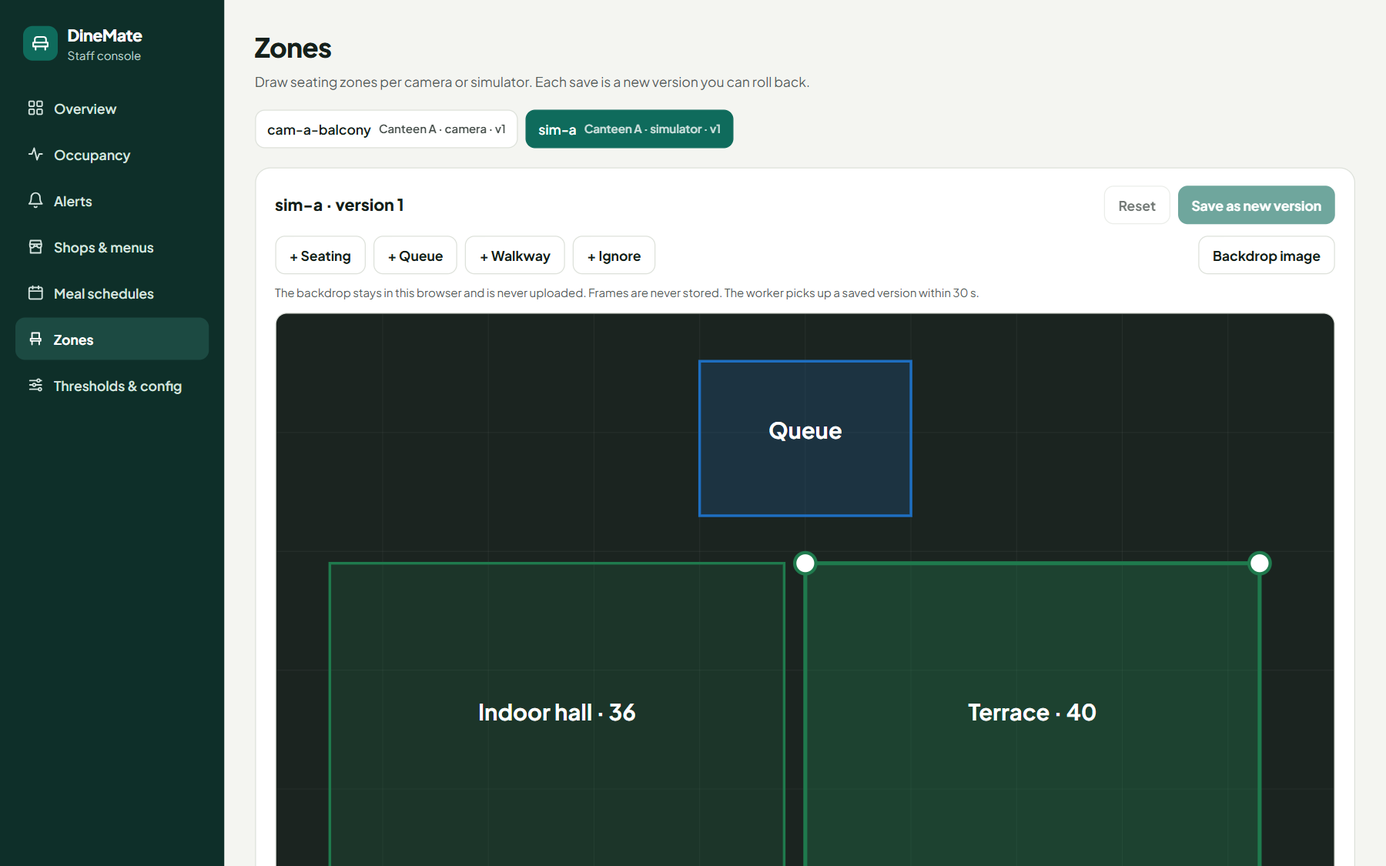
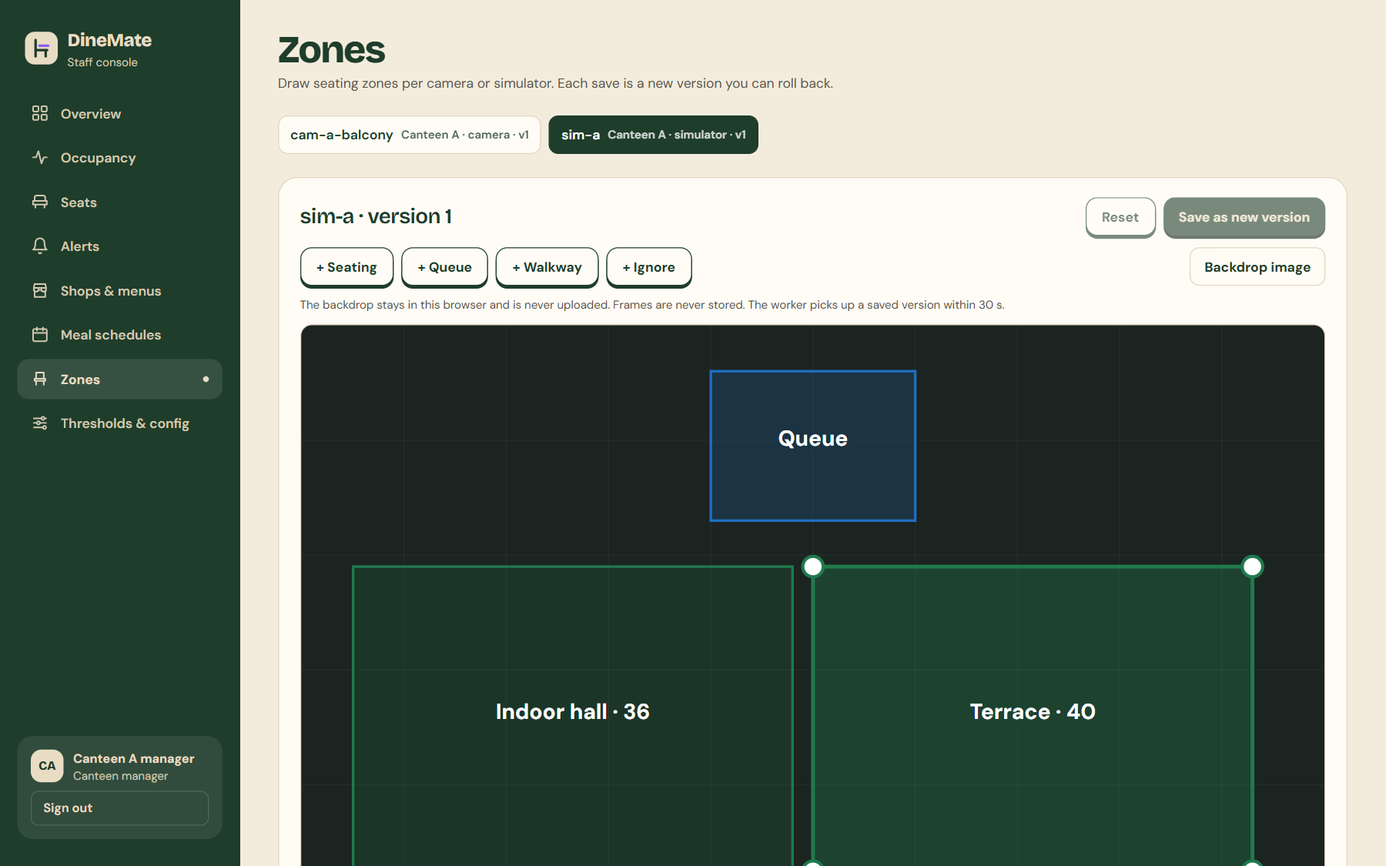
docs: README with DineMate Business, the redesign and new screenshots

diff --git a/e2e/screenshots/capture.spec.ts b/e2e/screenshots/capture.spec.ts
@@ -1,6 +1,6 @@
-import { expect, test, type Browser, type Page } from "@playwright/test";
+import { expect, test, type APIRequestContext, type Browser, type Page } from "@playwright/test";
 import { fileURLToPath } from "node:url";
-import { asStudent, CONSOLE, signIn, STUDENT } from "../tests/support";
+import { API, asStudent, BUSINESS, CONSOLE, PASSWORD, signIn, SIM_TOKEN, STUDENT } from "../tests/support";
 
 const OUT = fileURLToPath(new URL("../../docs/screenshots/", import.meta.url));
 const PHONE = { viewport: { width: 390, height: 844 }, deviceScaleFactor: 2, isMobile: true, hasTouch: true };
@@ -26,6 +26,15 @@ async function shot(page: Page, name: string, fullPage = false): Promise<void> {
 }
 
 test.describe.configure({ mode: "serial" });
+
+test("welcome screen on a phone", async ({ browser }) => {
+  const context = await browser.newContext(PHONE);
+  const page = await context.newPage();
+  await page.goto(`${STUDENT}/welcome`);
+  await expect(page.getByRole("button", { name: /Find a seat/ })).toBeVisible();
+  await shot(page, "student-welcome-phone");
+  await context.close();
+});
 
 test("student app on a phone", async ({ browser }) => {
   const page = await studentPage(browser, PHONE);
@@ -63,11 +72,40 @@ test("student app on a laptop", async ({ browser }) => {
   await page.context().close();
 });
 
-test("staff console", async ({ browser }) => {
+async function postSampleSeats(request: APIRequestContext): Promise<void> {
+  const headers = { Authorization: `Device ${SIM_TOKEN}` };
+  const config = (await (await request.get(`${API}/devices/sim-a/config`, { headers })).json()) as {
+    zones: { zone_id: string; capacity: number }[];
+  };
+  const zones = config.zones.map((z, i) => {
+    const held = 4;
+    const unknown = i === 0 ? 2 : 0;
+    const occupied = Math.round(z.capacity * (i === 0 ? 0.75 : 0.62));
+    return {
+      zone_id: z.zone_id,
+      free: z.capacity - occupied - held - unknown,
+      occupied,
+      held,
+      unknown,
+      free_soon: 2,
+      standing: i === 0 ? 5 : 1,
+      crowded: i === 0,
+    };
+  });
+  const response = await request.post(`${API}/devices/sim-a/seats`, {
+    headers,
+    data: { captured_at: new Date(Date.now() - 1000).toISOString(), zones, seats: [] },
+  });
+  expect(response.ok()).toBeTruthy();
+}
+
+test("staff console", async ({ browser, request }) => {
+  await postSampleSeats(request);
   for (const [email, path, name, ready] of [
     ["admin@dinemate.test", "/", "console-overview", "Live occupancy by zone"],
     ["rice.stall@dinemate.test", "/shops", "console-shops", "Rice & Curry Stall"],
     ["canteen.a@dinemate.test", "/occupancy", "console-occupancy", "Estimated seats in use"],
+    ["canteen.a@dinemate.test", "/seats", "console-seats", "By zone"],
   ] as const) {
     const context = await browser.newContext(WIDE);
     const page = await context.newPage();
@@ -114,4 +152,34 @@ test("labelled safety simulation", async ({ browser }) => {
   await expect(officer.getByText("No open safety events.")).toBeVisible();
   await student.context().close();
   await context.close();
+});
+
+async function businessPage(browser: Browser, size: typeof PHONE | typeof WIDE): Promise<Page> {
+  const context = await browser.newContext(size);
+  const page = await context.newPage();
+  await page.goto(BUSINESS);
+  await page.getByLabel("Email").fill("owner@dinemate.test");
+  await page.getByLabel("Password").fill(PASSWORD);
+  await page.getByRole("button", { name: "Sign in" }).click();
+  await expect(page.getByRole("heading", { name: "Live floor", level: 1 })).toBeVisible();
+  return page;
+}
+
+test("DineMate Business dashboard", async ({ browser }) => {
+  const page = await businessPage(browser, WIDE);
+  await expect(page.getByRole("list", { name: "Floor map" }).getByRole("listitem")).toHaveCount(12);
+  await shot(page, "business-floor");
+  for (const [name, file] of [
+    ["Customers", "business-customers"],
+    ["Reports", "business-reports"],
+  ] as const) {
+    await page.getByRole("navigation", { name: "Business" }).getByRole("link", { name }).click();
+    await expect(page.getByRole("heading", { name, level: 1 })).toBeVisible();
+    await shot(page, file);
+  }
+  await page.context().close();
+
+  const phone = await businessPage(browser, PHONE);
+  await shot(phone, "business-floor-phone");
+  await phone.context().close();
 });

diff --git a/e2e/screenshots.config.ts b/e2e/screenshots.config.ts
@@ -32,5 +32,12 @@ export default defineConfig({
       timeout: 120_000,
       reuseExistingServer: false,
     },
+    {
+      command: "pnpm --filter business exec vite --port 5185 --strictPort",
+      url: "http://localhost:5185",
+      env: { VITE_API_URL: API },
+      timeout: 120_000,
+      reuseExistingServer: false,
+    },
   ],
 });

diff --git a/README.md b/README.md
@@ -1,31 +1,35 @@
 # DineMate
 
-**Find a free canteen seat before you queue.** DineMate shows campus students roughly how many seats are free in each canteen, suggests a less crowded one nearby, and lists what each shop is serving right now. Canteen staff get a console for alerts, menus, meal times and seating zones. A separate safety module mirrors approved alarms, and every simulated alarm is clearly labelled.
+**Find a free canteen seat before you queue.** DineMate shows campus students roughly how many seats are free in each canteen, counting bags left on seats and hidden seats separately, suggests a less crowded canteen nearby, and lists what each shop is serving. Canteen staff get a console for alerts, seats, menus, meal times and seating zones. A separate safety module mirrors approved alarms, and every simulated alarm is clearly labelled.
 
-> All canteens, shops, prices and people counts in this repo are **labelled sample data**. Seat numbers are always estimates ("about N", with a range). Old data is never shown as current.
+**DineMate Business** is the same platform for cafés and restaurants, rented monthly: a live table map, anonymous customer visits and turn times, and a "likely free in about X–Y min" estimate per table.
+
+> All canteens, shops, cafés, prices and people counts in this repo are **labelled sample data**. Seat numbers are always estimates ("about N", with a range). Old data is never shown as current.
 
 <p align="center">
-  <img src="docs/screenshots/student-home-phone.png" width="230" alt="Student Home: best spot now and the canteen list with about N seats free" />
+  <img src="docs/screenshots/student-welcome-phone.png" width="230" alt="Welcome screen: know where to sit before you queue" />
   &nbsp;
-  <img src="docs/screenshots/student-canteen-phone.png" width="230" alt="Canteen page for a crowded canteen with a Less crowded nearby suggestion" />
+  <img src="docs/screenshots/student-home-phone.png" width="230" alt="Student Home: best spot now with about 32 seats free and the canteen list with occupancy bars" />
   &nbsp;
-  <img src="docs/screenshots/student-food-phone.png" width="230" alt="Food tab with sample menu pictures, prices and sold-out state" />
+  <img src="docs/screenshots/student-canteen-phone.png" width="230" alt="Canteen page with the seat bar, zones and a Less crowded nearby suggestion" />
 </p>
 
 ## What it does
 
-| For students (installable PWA)                                             | For staff (console)                                                              |
-| -------------------------------------------------------------------------- | -------------------------------------------------------------------------------- |
-| Live "about N seats free" per canteen and zone, with a range               | Overview: live zones, crowding alerts with acknowledge, device health            |
-| **Best spot now** and a **Less crowded nearby** card with walking time     | **Shops & menus**: hours, exceptions, temporary closure, menu drafts → Publish   |
-| Food tab: shops open now, menus by meal, one-tap **sold out** from staff   | **Meal schedules**: campus default plus per-canteen overrides                    |
-| Meal countdown that follows the server clock (a wrong phone clock is fine) | **Thresholds** per zone; **Zones** editor with versions and rollback             |
-| Experimental **Next hour** forecast                                        | **Occupancy** history; **Safety** desk: acknowledge, resolve, labelled simulator |
-| Safety banner; "status unknown" if the connection drops                    | Roles and scopes: admin, canteen manager, shop manager, safety officer           |
+| Students (installable PWA)                                              | Campus staff (console)                                                                  | Cafés and restaurants (DineMate Business)                                              |
+| ----------------------------------------------------------------------- | --------------------------------------------------------------------------------------- | -------------------------------------------------------------------------------------- |
+| "About N seats free" per canteen and zone, with a range                 | Overview: free seats, live zones, crowding alerts with acknowledge, device health       | **Live floor**: table map with free, seated, held by a bag and needs clearing          |
+| Occupancy bar that shows taken, **held by bags**, hidden and free seats | **Seats**: per-zone taken, held, hidden and free-soon counts, seat maps, stay times     | **Likely free in about X–Y min** per table (experimental, from the café's own history) |
+| **Best spot now** and **Less crowded nearby** with walking time         | **Shops & menus**: hours, exceptions, closures, menu drafts → Publish, one-tap sold out | **Customers**: anonymous visits, average stay, turns per table, busiest hours          |
+| Food tab: shops open now, menus by meal, sold out in real time          | **Meal schedules**, **Thresholds**, **Zones** editor with seat placing and rollback     | **Reports**: day and week totals, weekday × hour grid                                  |
+| Meal countdown on the server clock; experimental **next hour** forecast | **Occupancy** history; **Safety** desk with a labelled simulator                        | **Settings**: group camera seats into tables, data retention                           |
+| Safety banner; "status unknown" if the connection drops                 | Roles: admin, canteen manager, shop manager, safety officer                             | Roles: owner and venue manager; Staff, Sales and Privacy arrive in Phase 9             |
 
-Seats are counted by a small vision worker (YOLO11n + ByteTrack). It runs on a laptop with a webcam or a recorded canteen video and **posts counts only**: no frames are stored and there is no face recognition. Canteens without a camera are fed by a labelled simulator.
+Seats are counted by a small vision worker (YOLO11n + ByteTrack, plus pose for sitting vs standing). It runs on a laptop with a webcam or a recorded video and **posts numbers only**: no frames are stored and customers are never identified. Places without a camera are fed by labelled simulators.
 
 ## Screenshots
+
+### Student app
 
 <table>
   <tr>
@@ -33,58 +37,91 @@ Seats are counted by a small vision worker (YOLO11n + ByteTrack). It runs on a l
     <td width="50%"><img src="docs/screenshots/student-food-laptop.png" alt="Food and shops on a laptop with sample menu pictures" /></td>
   </tr>
   <tr>
-    <td align="center">Student Home: best spot, canteens, busy times</td>
-    <td align="center">Food & shops: menus with sample pictures</td>
-  </tr>
-  <tr>
-    <td><img src="docs/screenshots/console-overview.png" alt="Staff console overview" /></td>
-    <td><img src="docs/screenshots/console-shops.png" alt="Shop manager editing a menu" /></td>
-  </tr>
-  <tr>
-    <td align="center">Console overview: zones, alerts, devices, today's chart</td>
-    <td align="center">Shop manager: draft menu, inline prices, one-tap sold out</td>
-  </tr>
-  <tr>
-    <td><img src="docs/screenshots/console-zones.png" alt="Zone editor with versions" /></td>
-    <td><img src="docs/screenshots/console-safety.png" alt="Safety desk with a labelled simulated alarm" /></td>
-  </tr>
-  <tr>
-    <td align="center">Zone editor: drag corners, save a version, roll back</td>
-    <td align="center">Safety desk: every simulation is labelled</td>
+    <td align="center">Home: best spot, meal countdown, every canteen at a glance</td>
+    <td align="center">Food & shops: menus with sample pictures and sold-out state</td>
   </tr>
 </table>
 
 <p align="center">
-  <img src="docs/screenshots/student-meals-phone.png" width="230" alt="Meal countdown" />
+  <img src="docs/screenshots/student-food-phone.png" width="200" alt="Food tab on a phone" />
   &nbsp;
-  <img src="docs/screenshots/student-safety-phone.png" width="230" alt="Student banner during a labelled safety simulation" />
+  <img src="docs/screenshots/student-meals-phone.png" width="200" alt="Meal countdown read from the campus clock" />
+  &nbsp;
+  <img src="docs/screenshots/student-safety-phone.png" width="200" alt="Student banner during a labelled safety simulation" />
 </p>
 
-More: [canteen page with the forecast](docs/screenshots/student-canteen-laptop.png) · [occupancy history](docs/screenshots/console-occupancy.png).
+### Staff console
+
+<table>
+  <tr>
+    <td width="50%"><img src="docs/screenshots/console-overview.png" alt="Staff console overview" /></td>
+    <td width="50%"><img src="docs/screenshots/console-seats.png" alt="Seats page with taken, held, hidden and free seats per zone" /></td>
+  </tr>
+  <tr>
+    <td align="center">Overview: free seats, zones, alerts, devices, today's chart</td>
+    <td align="center">Seats: taken, held by bags, hidden and free per zone</td>
+  </tr>
+  <tr>
+    <td><img src="docs/screenshots/console-shops.png" alt="Shop manager editing a menu" /></td>
+    <td><img src="docs/screenshots/console-safety.png" alt="Safety desk with a labelled simulated alarm" /></td>
+  </tr>
+  <tr>
+    <td align="center">Shop manager: draft menu, inline prices, one-tap sold out</td>
+    <td align="center">Safety desk: every simulation is labelled</td>
+  </tr>
+</table>
+
+More: [zone editor](docs/screenshots/console-zones.png) · [occupancy history](docs/screenshots/console-occupancy.png) · [canteen page with the forecast](docs/screenshots/student-canteen-laptop.png).
+
+### DineMate Business
+
+<table>
+  <tr>
+    <td colspan="2"><img src="docs/screenshots/business-floor.png" alt="Business Live floor: table map, tables free, freeing up soon and needs attention" /></td>
+  </tr>
+  <tr>
+    <td colspan="2" align="center">Live floor: table states and timers, "freeing up soon" estimates, tables to clear</td>
+  </tr>
+  <tr>
+    <td width="50%"><img src="docs/screenshots/business-customers.png" alt="Customers: visits by hour and stay by table" /></td>
+    <td width="50%"><img src="docs/screenshots/business-reports.png" alt="Reports: daily visits and busiest hours grid" /></td>
+  </tr>
+  <tr>
+    <td align="center">Customers: anonymous visits, stays and turns</td>
+    <td align="center">Reports: daily totals and busiest hours</td>
+  </tr>
+</table>
+
+<p align="center">
+  <img src="docs/screenshots/business-floor-phone.png" width="230" alt="Manager phone view: tables free and a Needs you list by urgency" />
+</p>
 
 ## How it fits together
 
 ```text
- webcam / canteen video ──► services/vision (YOLO, counts only) ──┐
- occupancy simulator (labelled) ─────────────────────────────────┤  signed device tokens
-                                                                  ▼
-          apps/student (PWA)  ◄──►  services/api (FastAPI + PostgreSQL)  ◄──►  apps/console
-                                     ├─ crowding rules (hysteresis, dwell)
-                                     ├─ forecast (experimental baseline)
-                                     └─ app/safety (separate: HMAC-signed sources only)
+ webcam / video ──► services/vision (YOLO + pose, numbers only) ──┐
+ campus simulator (labelled) ─────────────────────────────────────┤  signed device tokens
+ café simulator (labelled, per seat) ─────────────────────────────┤
+                                                                   ▼
+ apps/student (PWA) ◄──► services/api (FastAPI + PostgreSQL) ◄──► apps/console
+                          ├─ crowding rules, forecast (experimental)
+                          ├─ seats: free, taken, held by bags, hidden
+                          ├─ app/business: tables, visits, leave-time estimate ◄──► apps/business
+                          └─ app/safety (separate: HMAC-signed sources only)
 ```
 
-| Path                  | What                                                                                                                           |
-| --------------------- | ------------------------------------------------------------------------------------------------------------------------------ |
-| `apps/student`        | React 18 + Vite + Tailwind v4 PWA for students                                                                                 |
-| `apps/console`        | Staff console (sign-in, roles, editing pages)                                                                                  |
-| `packages/ui`         | Shared tokens and components (status pill, sample canteen and food pictures, icons)                                            |
-| `packages/api-client` | Typed API client and TanStack Query hooks; types are checked against the OpenAPI spec                                          |
-| `services/api`        | FastAPI, SQLAlchemy 2, Alembic, PostgreSQL 16 (managed with uv, Python 3.12)                                                   |
-| `services/vision`     | Seat-counting worker and zone tools ([README](services/vision/README.md))                                                      |
-| `infra`               | Docker Compose: Postgres, API and simulator                                                                                    |
-| `e2e`                 | Playwright demo flows, accessibility checks and README screenshots                                                             |
-| `docs`                | [Plan](docs/DineMate_Development_Plan.md), [roadmap](docs/ROADMAP.md), [demo script](docs/DEMO.md), [results](docs/RESULTS.md) |
+| Path                  | What                                                                                                                                          |
+| --------------------- | --------------------------------------------------------------------------------------------------------------------------------------------- |
+| `apps/student`        | React 18 + Vite + Tailwind v4 PWA for students                                                                                                |
+| `apps/console`        | Staff console for the campus (sign-in, roles, editing pages)                                                                                  |
+| `apps/business`       | DineMate Business dashboard for cafés and restaurants (desktop, tablet and a manager phone view)                                              |
+| `packages/ui`         | Shared design tokens and components: occupancy bar, status chips, logo, sample canteen and food pictures, icons                               |
+| `packages/api-client` | Typed API client and TanStack Query hooks with labelled sample data; types are checked against the OpenAPI spec                               |
+| `services/api`        | FastAPI, SQLAlchemy 2, Alembic, PostgreSQL 16 (managed with uv, Python 3.12); `app/business/` and `app/safety/` are modules                   |
+| `services/vision`     | Seat-counting worker, seat states and zone tools ([README](services/vision/README.md))                                                        |
+| `infra`               | Docker Compose: Postgres, API, campus simulator and café simulator                                                                            |
+| `e2e`                 | Playwright demo flows, accessibility checks and README screenshots                                                                            |
+| `docs`                | [Plan](docs/DineMate_Development_Plan.md), [roadmap](docs/ROADMAP.md), [business design](docs/BUSINESS_DESIGN.md), [results](docs/RESULTS.md) |
 
 ## Quick start
 
@@ -95,7 +132,7 @@ pnpm install
 pnpm stack:up
 ```
 
-This starts Postgres, the API on http://localhost:8000 and the occupancy simulator. An empty database is migrated and seeded with labelled sample data and four sample staff accounts.
+This starts Postgres, the API on http://localhost:8000 and both simulators. An empty database is migrated and seeded with labelled sample data, the Sample Café and the demo accounts.
 
 ```bash
 pnpm dev:student:api
@@ -105,40 +142,51 @@ pnpm dev:student:api
 pnpm dev:console:api
 ```
 
+```bash
+pnpm dev:business:api
+```
+
 - Student app: http://localhost:5173
-- Staff console: http://localhost:5174. Sign in as `admin@dinemate.test`, `canteen.a@dinemate.test`, `rice.stall@dinemate.test` or `safety@dinemate.test`, all with the password from `DINEMATE_DEMO_PASSWORD` (see `infra/.env.example`).
+- Staff console: http://localhost:5174. Sign in as `admin@dinemate.test`, `canteen.a@dinemate.test`, `rice.stall@dinemate.test` or `safety@dinemate.test`.
+- DineMate Business: http://localhost:5177. Sign in as `owner@dinemate.test` or `manager@dinemate.test`.
+- All demo accounts use the password from `DINEMATE_DEMO_PASSWORD` (see `infra/.env.example`).
 - API docs: http://localhost:8000/api/v1/docs
 
-No Docker? `pnpm dev:student` and `pnpm dev:console` run the apps on built-in sample data. The sample console accepts any password for the four sample accounts.
+No Docker? `pnpm dev:student`, `pnpm dev:console` and `pnpm dev:business` run on built-in sample data, and the sample sign-in accepts any password.
 
-Optional, for the forecast and charts:
+Optional, for the campus forecast and charts:
 
 ```bash
 docker compose -f infra/docker-compose.yml exec api python -m app.seed_history --days 21
 ```
 
-This adds three weeks of **simulated** history.
+This adds three weeks of **simulated** history. The Sample Café already comes with 28 days of simulated visits.
 
 ## Checks
 
-| Command                                       | What it runs                                                                                                           |
-| --------------------------------------------- | ---------------------------------------------------------------------------------------------------------------------- |
-| `pnpm lint` · `pnpm typecheck` · `pnpm build` | ESLint, strict TypeScript (with API contract checks), production builds                                                |
-| `pnpm test:api`                               | pytest: rules, forecast, safety, permissions; integration tests on a `dinemate_test` database                          |
-| `pnpm e2e`                                    | Playwright demo flows, axe accessibility (WCAG 2.1 A/AA) and a PWA install check, on their own `dinemate_e2e` database |
-| `pnpm screenshots`                            | Regenerates the images in `docs/screenshots/` from the same isolated setup                                             |
-| `pnpm api:types`                              | Re-exports the OpenAPI spec and regenerates the TypeScript types after API schema changes                              |
+| Command                                       | What it runs                                                                                                               |
+| --------------------------------------------- | -------------------------------------------------------------------------------------------------------------------------- |
+| `pnpm lint` · `pnpm typecheck` · `pnpm build` | ESLint, strict TypeScript (with API contract checks), production builds of all three apps                                  |
+| `pnpm test:api`                               | pytest: rules, seats, tables, visits, estimate, forecast, safety, tenancy; integration tests on a `dinemate_test` database |
+| `pnpm e2e`                                    | Playwright demo flows, axe accessibility (WCAG 2.1 A/AA) and a PWA install check, on their own `dinemate_e2e` database     |
+| `pnpm screenshots`                            | Regenerates the images in `docs/screenshots/` from the same isolated setup                                                 |
+| `pnpm api:types`                              | Re-exports the OpenAPI spec and regenerates the TypeScript types after API schema changes                                  |
 
 CI runs everything except `pnpm screenshots` on every pull request.
 
 ## Principles
 
-- **Estimates, not counts.** Every seat number has a range, goes grey after 2 minutes, and disappears after 10.
-- **Privacy first.** Counts only, frames never stored, no faces or identities.
+- **Estimates, not counts.** Every seat number has a range, goes grey after 2 minutes, and disappears after 10. Held and hidden seats are never shown as free.
+- **Privacy first.** Numbers only: frames are never stored and customers are never identified. In DineMate Business a visit is a table, a start and end time and how many seats were taken.
+- **Campus and business kept apart.** Each organization sees only its own venues; café data never appears in the student app or the campus console.
 - **Safety stays separate.** Its own tables, router and permissions. Only signed messages from registered sources are accepted, and a simulator can never send a real alarm.
-- **Honest sample data.** Shop names, prices and pictures are placeholders until real shops supply them. The canteen, shop and food pictures are generated samples, not photos of real places or dishes.
+- **Honest sample data.** Shop names, prices, cafés and pictures are placeholders. The pictures are generated samples, not photos of real places or dishes.
 - **Server time.** Countdowns and freshness use the server clock (Asia/Colombo), never the phone's.
+
+## Design
+
+Campus apps: forest, sand and purple, with Bricolage Grotesque for headings and big numbers and DM Sans for text. DineMate Business uses the same design language in graphite and cobalt ([business design](docs/BUSINESS_DESIGN.md)). Both were designed in Figma first.
 
 ## Status
 
-Built phase by phase from [docs/ROADMAP.md](docs/ROADMAP.md). The remaining work is real-world: hand-count accuracy on canteen videos, the seat-search survey, and demo rehearsals. Results go in [docs/RESULTS.md](docs/RESULTS.md).
+Built phase by phase from [docs/ROADMAP.md](docs/ROADMAP.md). Phases 1–8 are done, including seat-level occupancy (Phase 7) and the DineMate Business core (Phase 8). Next: staff recognition with consent, till data and the live camera view (Phase 9), then deployment and pilot cafés (Phase 10). Real-world work also remains: hand-count accuracy on canteen videos, the seat-search survey and demo rehearsals. Results go in [docs/RESULTS.md](docs/RESULTS.md).
